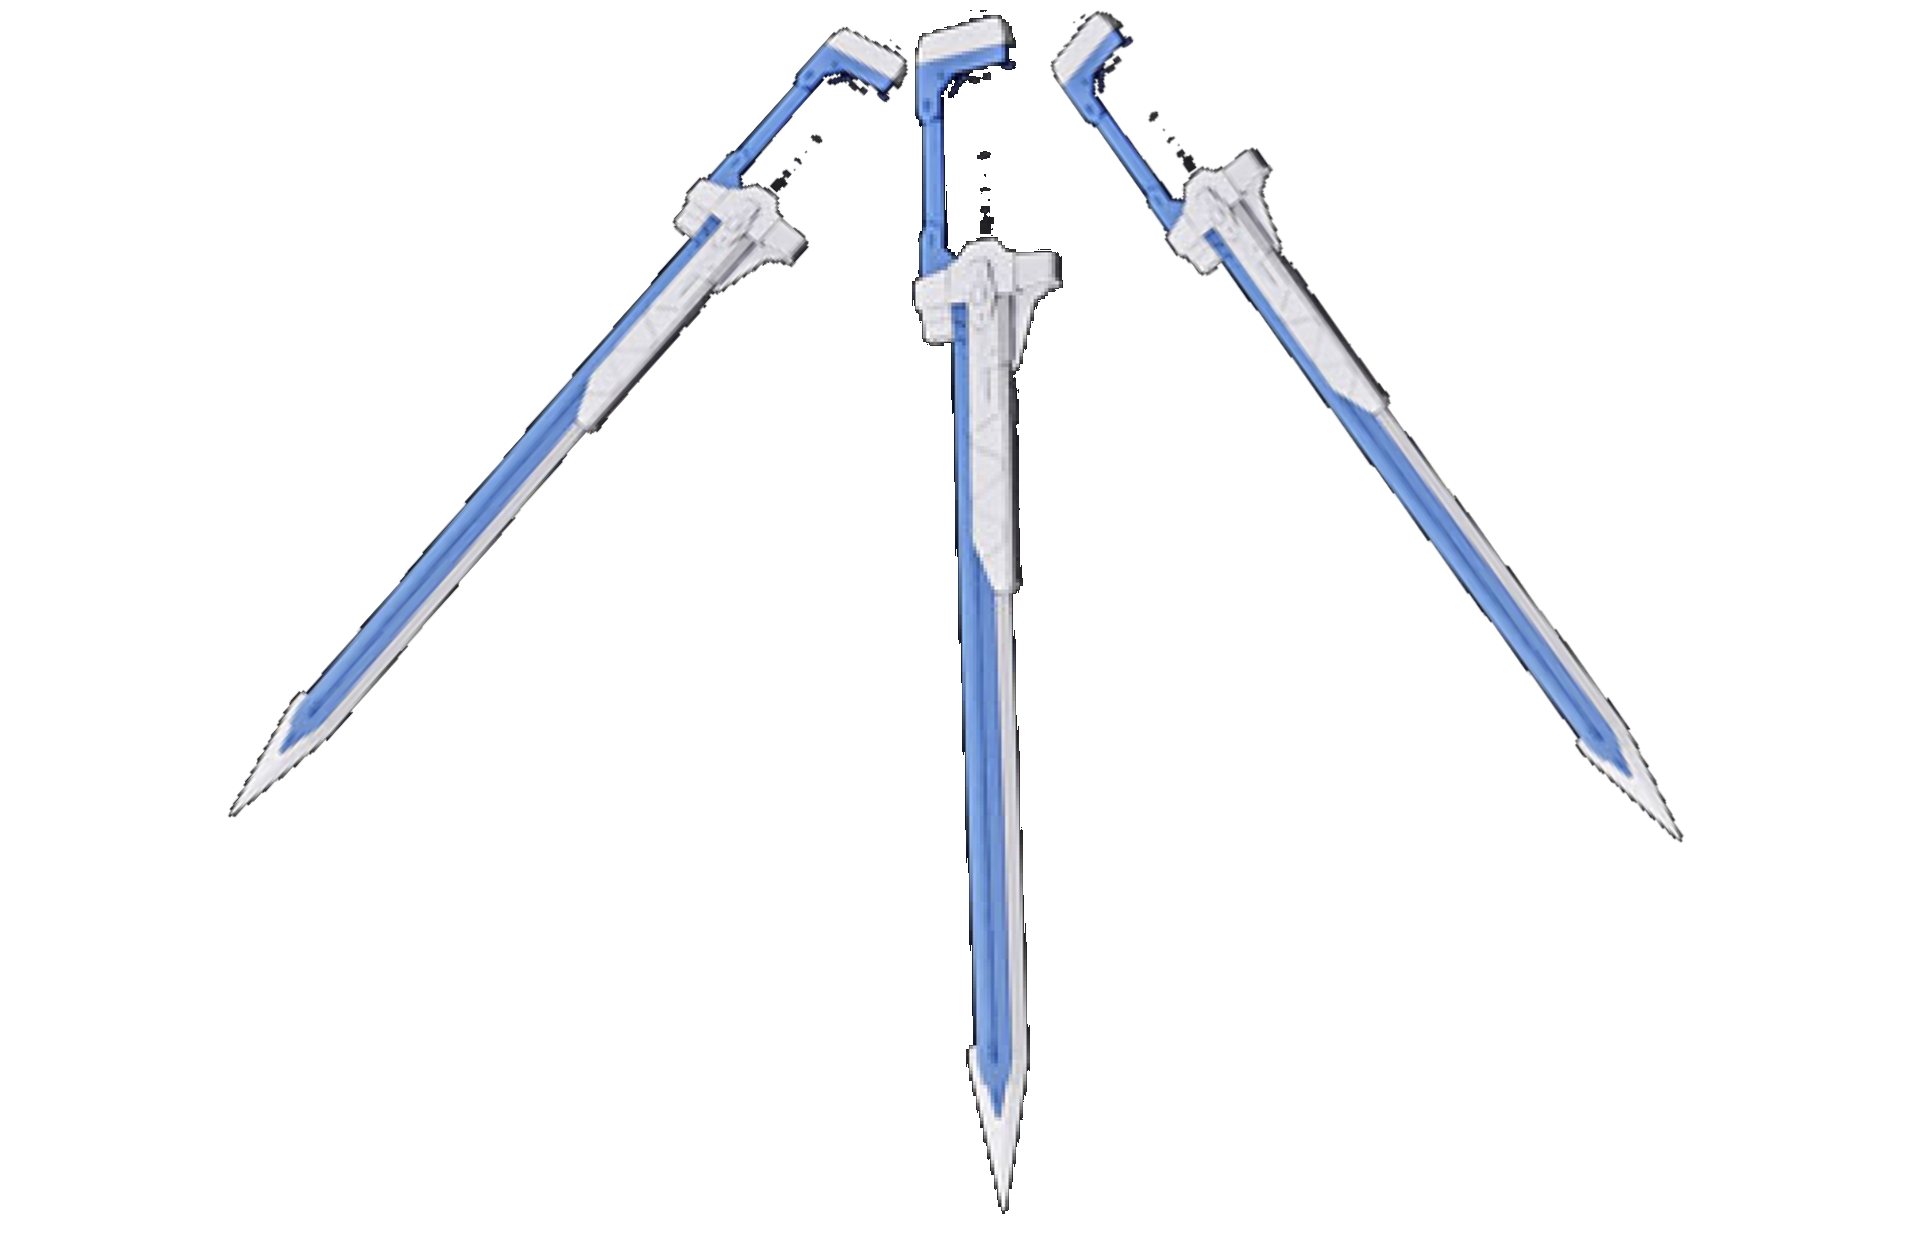
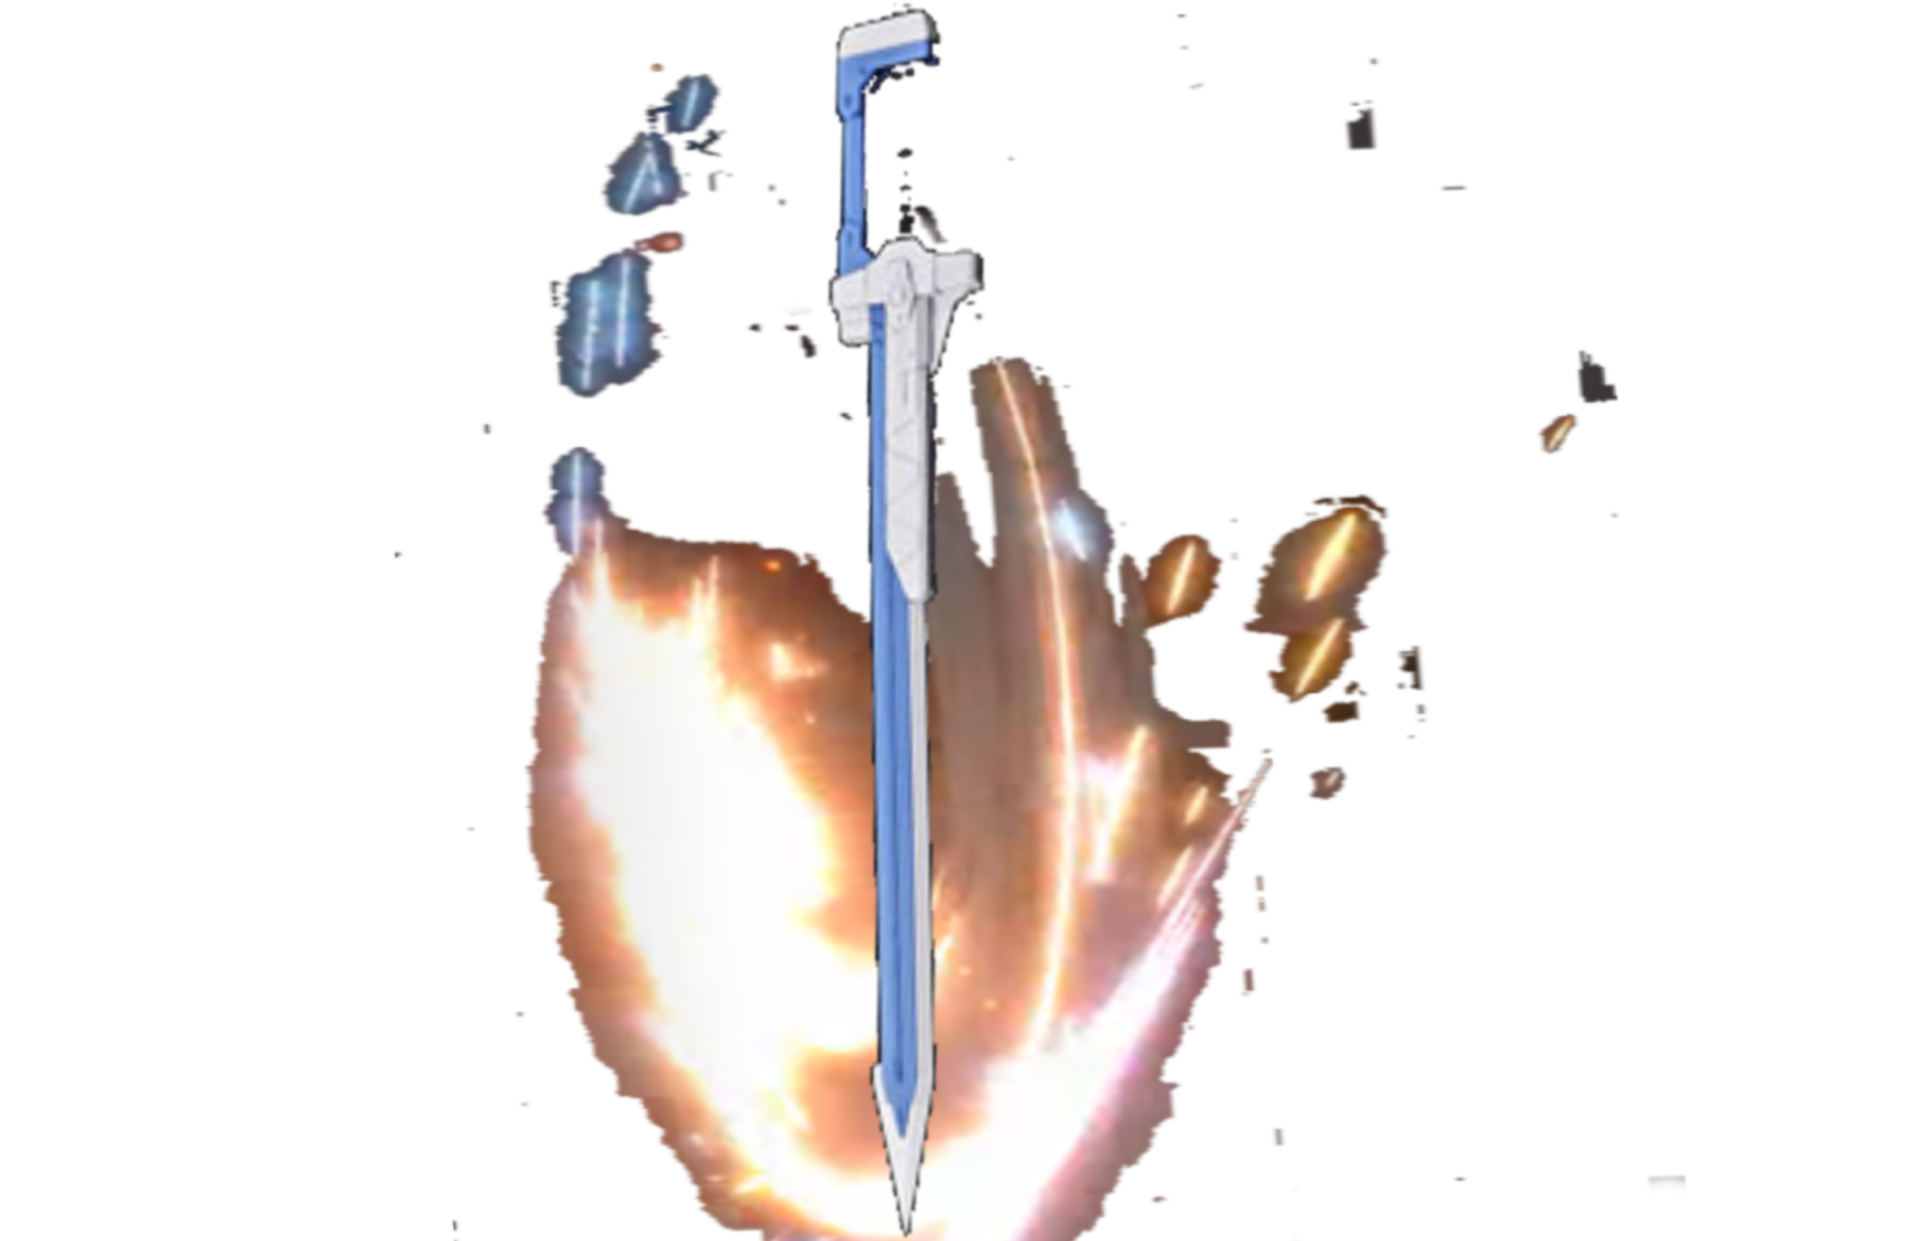
aa

Changed region(s): [[0.125, 0.0, 0.875, 1.0], [0.7812, 0.2756, 0.8438, 0.3674], [0.6875, 0.0919, 0.7188, 0.1225]]

diff --git a/stage01.js b/stage01.js
@@ -502,6 +502,10 @@ var playerSword_Image = new Image();
 playerSword_Image.src = "./img/noneImage.png"; 
 playerSword_Image.addEventListener("load",drawScreen, false);
 
+var playerSword_StopImage = new Image();
+playerSword_StopImage.src = "./img/player_skill00.png"; 
+playerSword_StopImage.addEventListener("load",drawScreen, false);
+
 var playerSword_UpImage = new Image();
 playerSword_UpImage.src = "./img/player_skill00_up.png"; 
 playerSword_UpImage.addEventListener("load",drawScreen, false);
@@ -636,8 +640,8 @@ var smovex = playerX + playerWidth/2;
 var smovey = playerY;
 
 //검 초기 크기
-var s_height = 120;
-var s_width = 120;
+var s_height = 100;
+var s_width = 100;
 
 //레이져 초기 생성 위치
 var laserX = playerX + playerWidth/2;
@@ -1790,19 +1794,19 @@ function sword_move(){
         for (var i=0;i<=4;i++){    
                 if (wayBefore=='R'){
                 playerSword_Image=playerSword_RightImage;
-                Context.drawImage(playerSword_Image,smovex--,smovey - 40,s_width--,s_height--);  
+                Context.drawImage(playerSword_Image,smovex-- - 10,smovey - 40,s_width--,s_height--);  
                 //lmovex = smovex;
                 //lmovey = smovey - 40;
                 }
                 if (wayBefore=='L'){
                 playerSword_Image=playerSword_LeftImage;
-                Context.drawImage(playerSword_Image,smovex++ - 90,smovey - 40,s_width--,s_height--);  
+                Context.drawImage(playerSword_Image,smovex++ - 80,smovey - 40,s_width--,s_height--);  
                 //lmovex = smovex - 90;
                 //lmovey = smovey - 40;
                 }
                 if (wayBefore=='D'){
                 playerSword_Image=playerSword_DownImage;
-                Context.drawImage(playerSword_Image,smovex - 45,smovey-- + 10,s_width--,s_height--);  
+                Context.drawImage(playerSword_Image,smovex - 45,smovey--,s_width--,s_height--);  
                 //lmovex = smovex - 45;
                 //lmovey = smovey + 10;
                 }
@@ -1810,8 +1814,16 @@ function sword_move(){
                 //lmovex = smovex - 45;
                 //lmovey = smovey - 80;
                 playerSword_Image=playerSword_UpImage;
-                Context.drawImage(playerSword_Image  ,smovex - 45,--smovey - 80,s_width--,s_height--);  
+                Context.drawImage(playerSword_Image  ,smovex - 45,--smovey - 60,s_width--,s_height--);  
                 }     
+                if (wayBefore=='' || wayBefore==null){
+                    //lmovex = smovex - 45;
+                    //lmovey = smovey - 80;
+                    playerSword_Image=playerSword_StopImage;
+                    Context.drawImage(playerSword_Image  ,smovex - 45,--smovey - 40,s_width--,s_height--);   
+                }
+
+                
                  
         }  
 
